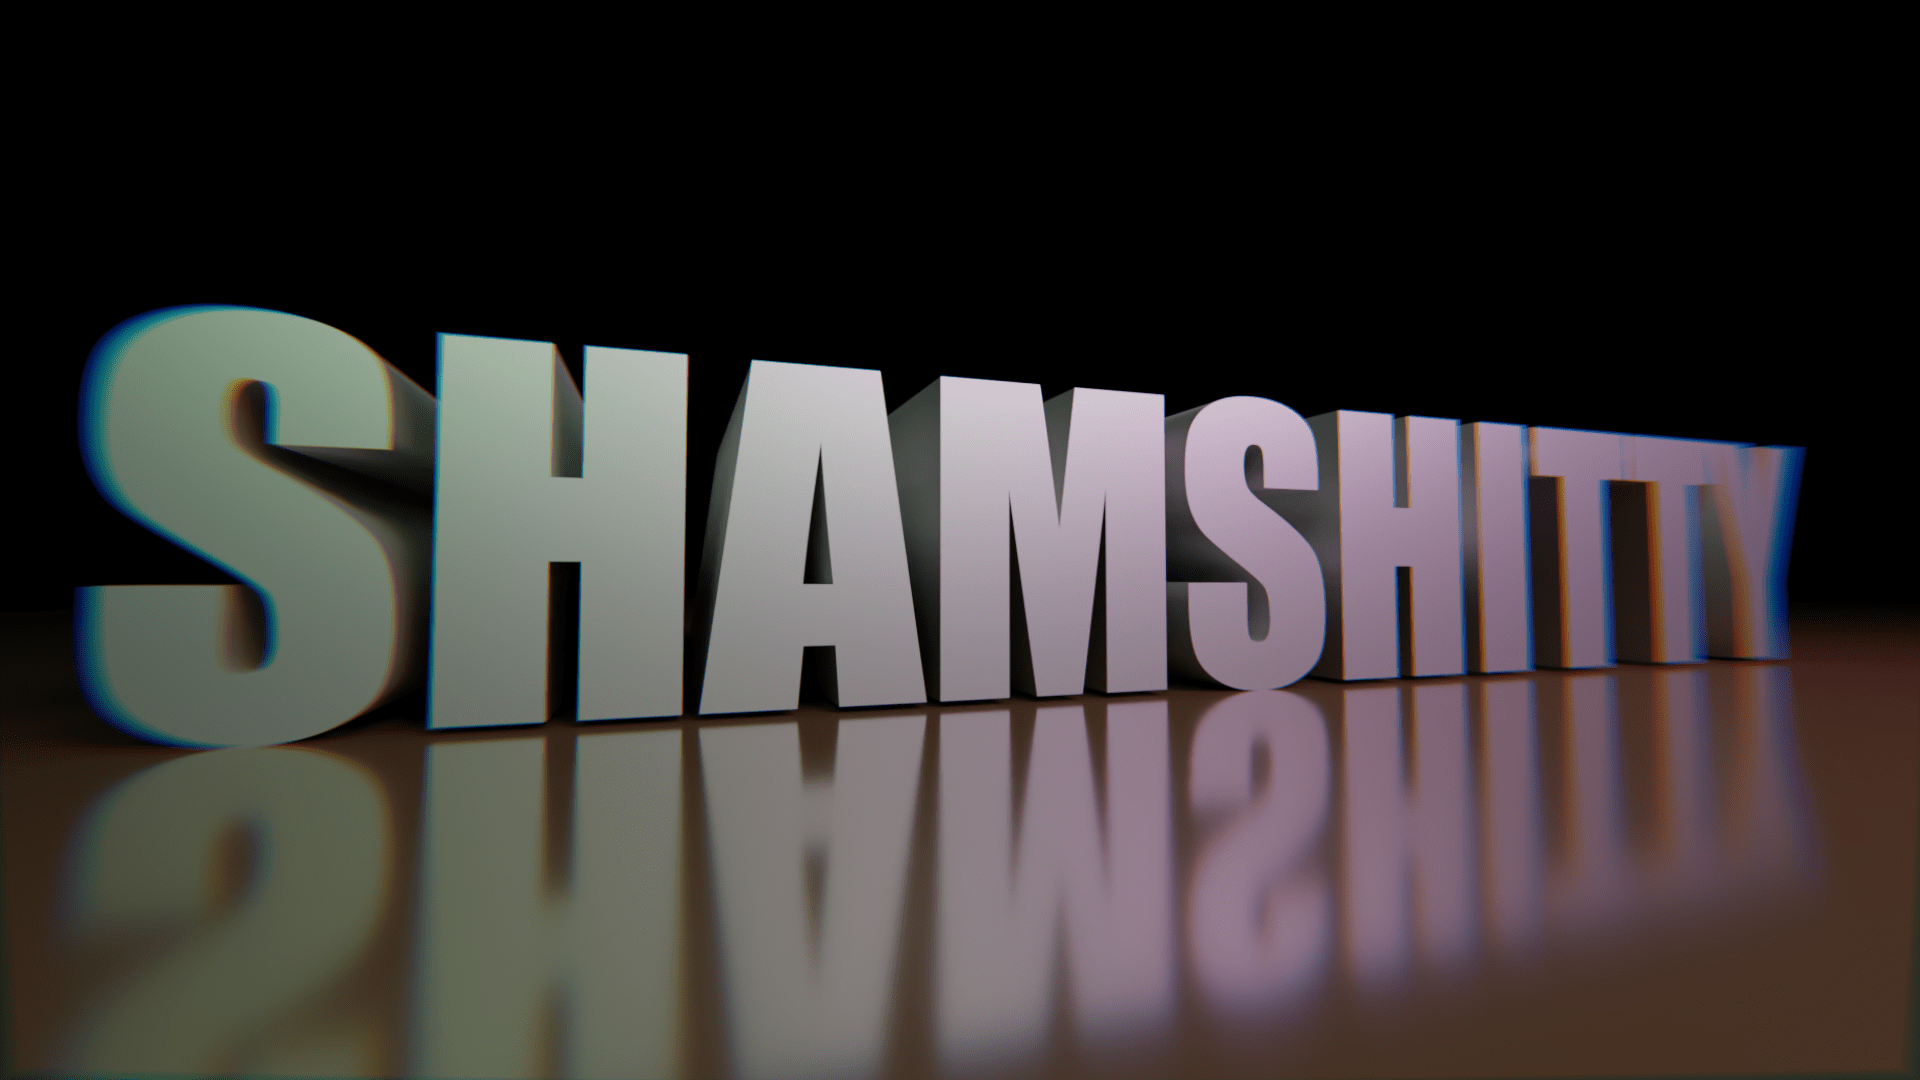
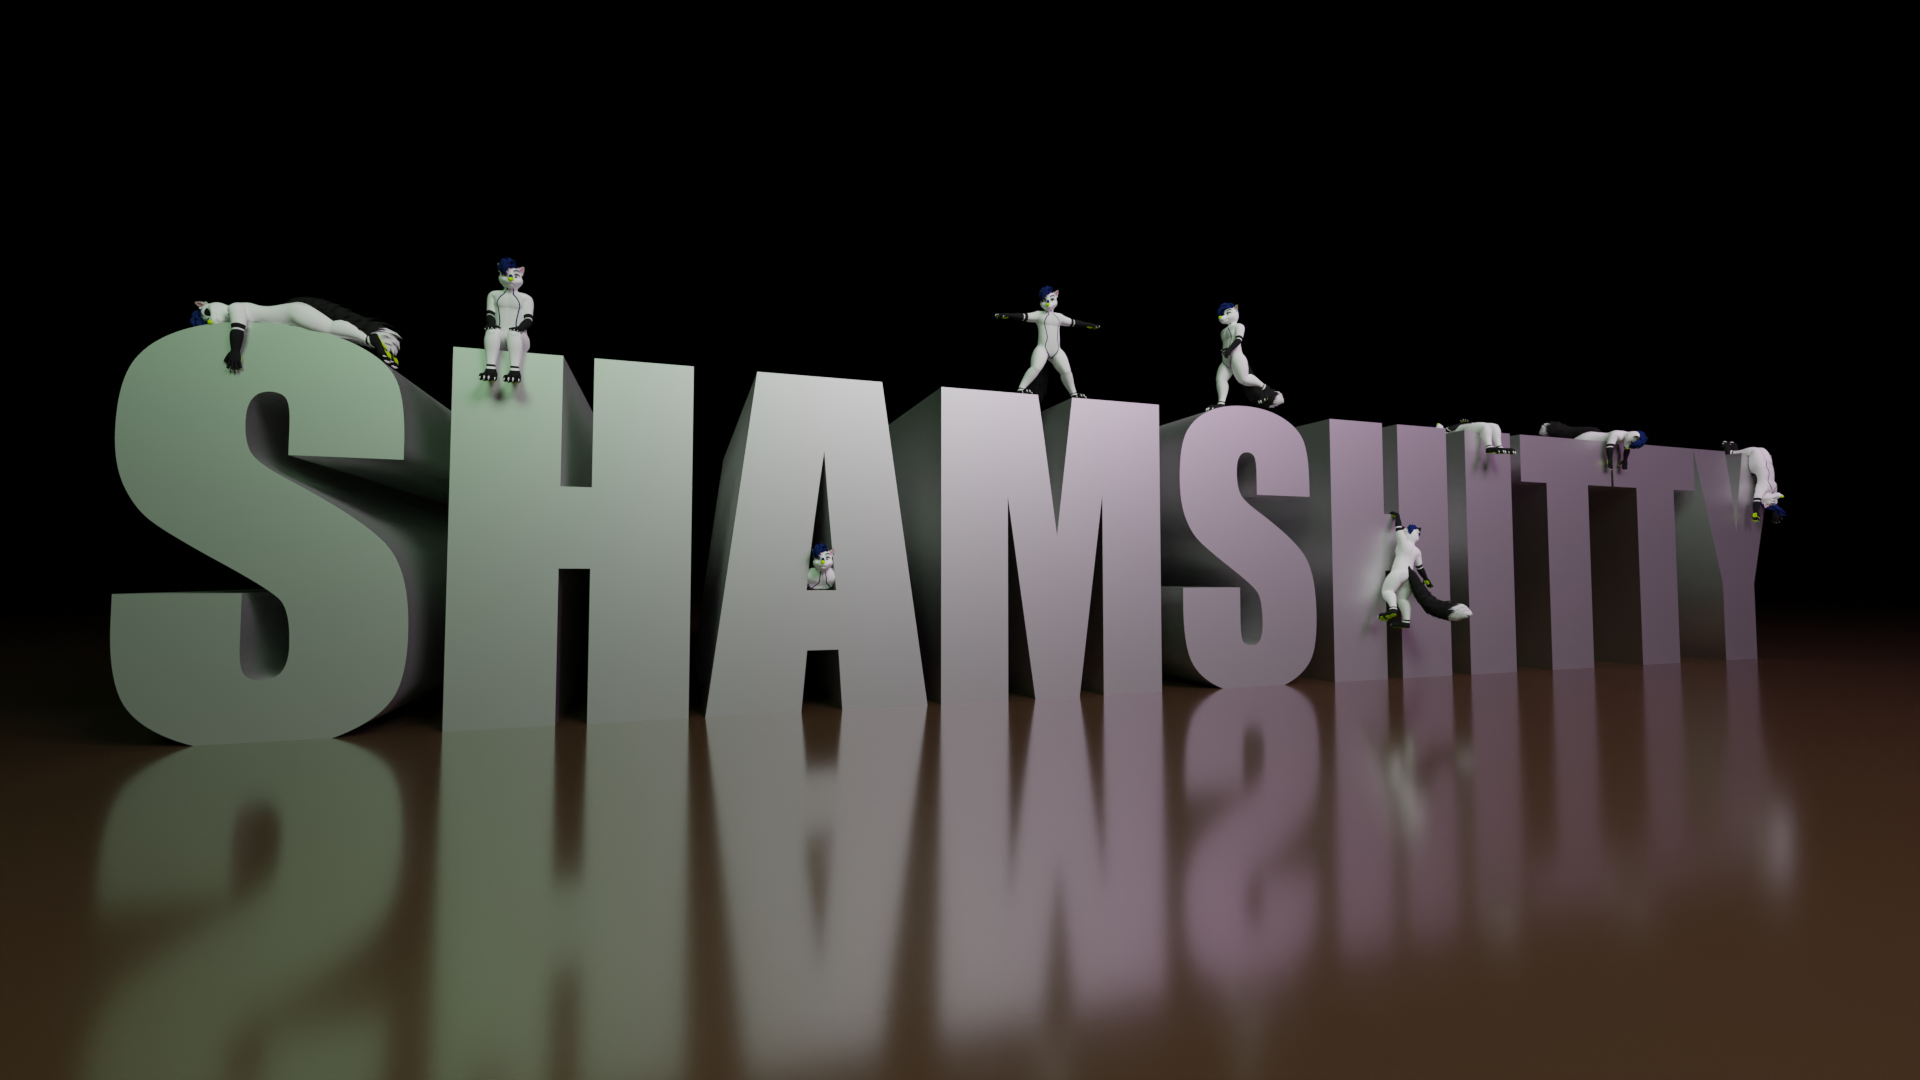
200th commit yippee
kawaii 404
pfp fallback for when websocket fails
added tiktok social
updated embed image

diff --git a/404.html b/404.html
@@ -6,9 +6,32 @@
     <title>404</title>
     <link rel="shortcut icon" href="https://shamshitty.xyz/assets/avatar2.png" type="image/x-icon">
     <link rel="stylesheet" href="https://shamshitty.xyz/assets/master.css">
+    <style>
+        body {
+            margin: 0;
+            padding: 0;
+        }
+        div {
+            display: block;
+            position: relative;
+            text-align: center;
+            margin: 0 auto;
+            transform: translate(0, 35%);
+        }
+        img {
+            display: block;
+            margin: 0 auto;
+            width: 40%;
+        }
+        a {
+            font-size: 22px;
+        }
+    </style>
 </head>
-<body style="margin: 20px;">
-    woops, you hit a 404. thats either my fault or yours <br>
-    heres a <a href="https://shamshitty.xyz">home page</a> link
+<body>
+    <div>
+        <img src="./assets/404.png" alt="404">
+        <a href="https://github.com/SAWARATSUKI/KawaiiLogos" target="_blank" rel="noopener noreferrer">https://github.com/SAWARATSUKI/KawaiiLogos</a>
+    </div>
 </body>
 </html>

diff --git a/socials.html b/socials.html
@@ -43,6 +43,7 @@
         <li><a href="https://open.spotify.com/user/9xxqc084xppfcj99y2qcx17e5" target="_blank" rel="noopener noreferrer">spotify</a></li>
         <li><a href="https://steamcommunity.com/id/invisyarcticfox" target="_blank" rel="noopener noreferrer">steam</a></li>
         <li><a href="https://t.me/invisyarcticfox" target="_blank" rel="noopener noreferrer">telegram</a></li>
+        <li><a href="https://tiktok.com/@shamshitty" target="_blank" rel="noopener noreferrer"></a></li>
         <li><a href="https://twitch.tv/shamshitty" target="_blank" rel="noopener noreferrer">twitch</a></li>
         <li><a href="https://twitter.com/invisyarcticfox" target="_blank" rel="noopener noreferrer">twitter</a></li>
         <li><a href="https://youtube.com/@shamshitty" target="_blank" rel="noopener noreferrer">youtube</a></li>

diff --git a/index.html b/index.html
@@ -41,7 +41,7 @@
                 <div class="txt"></div>
             </div>
         </div>
-        <img id="pfp" src="">
+        <img id="pfp" src="./assets/avatar.png">
     </div>
 
     <div id="resources">
